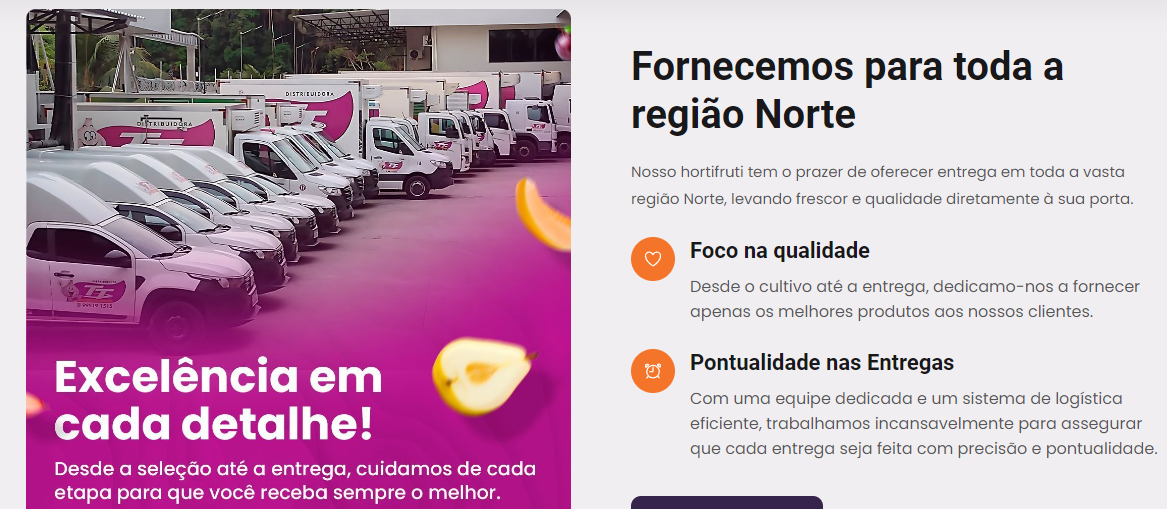
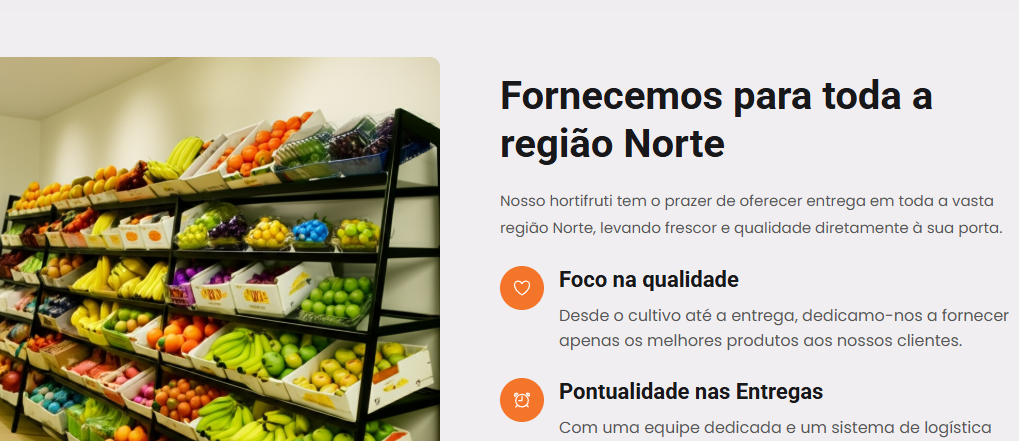
changed hortifruti website and image

diff --git a/src/data.jsx b/src/data.jsx
@@ -79,7 +79,7 @@ export const projects = [
   {
     id: nanoid(),
     img: sitehortifruti,
-    url: "https://tt-hortifruti.netlify.app/",
+    url: "https://gus-hortifruti.netlify.app/",
     github: "https://github.com/guskse",
     title: "Site Institucional para uma Distribuidora de Hortifruti",
     text: "Projeto feito com HTML, Javascript e CSS.",
